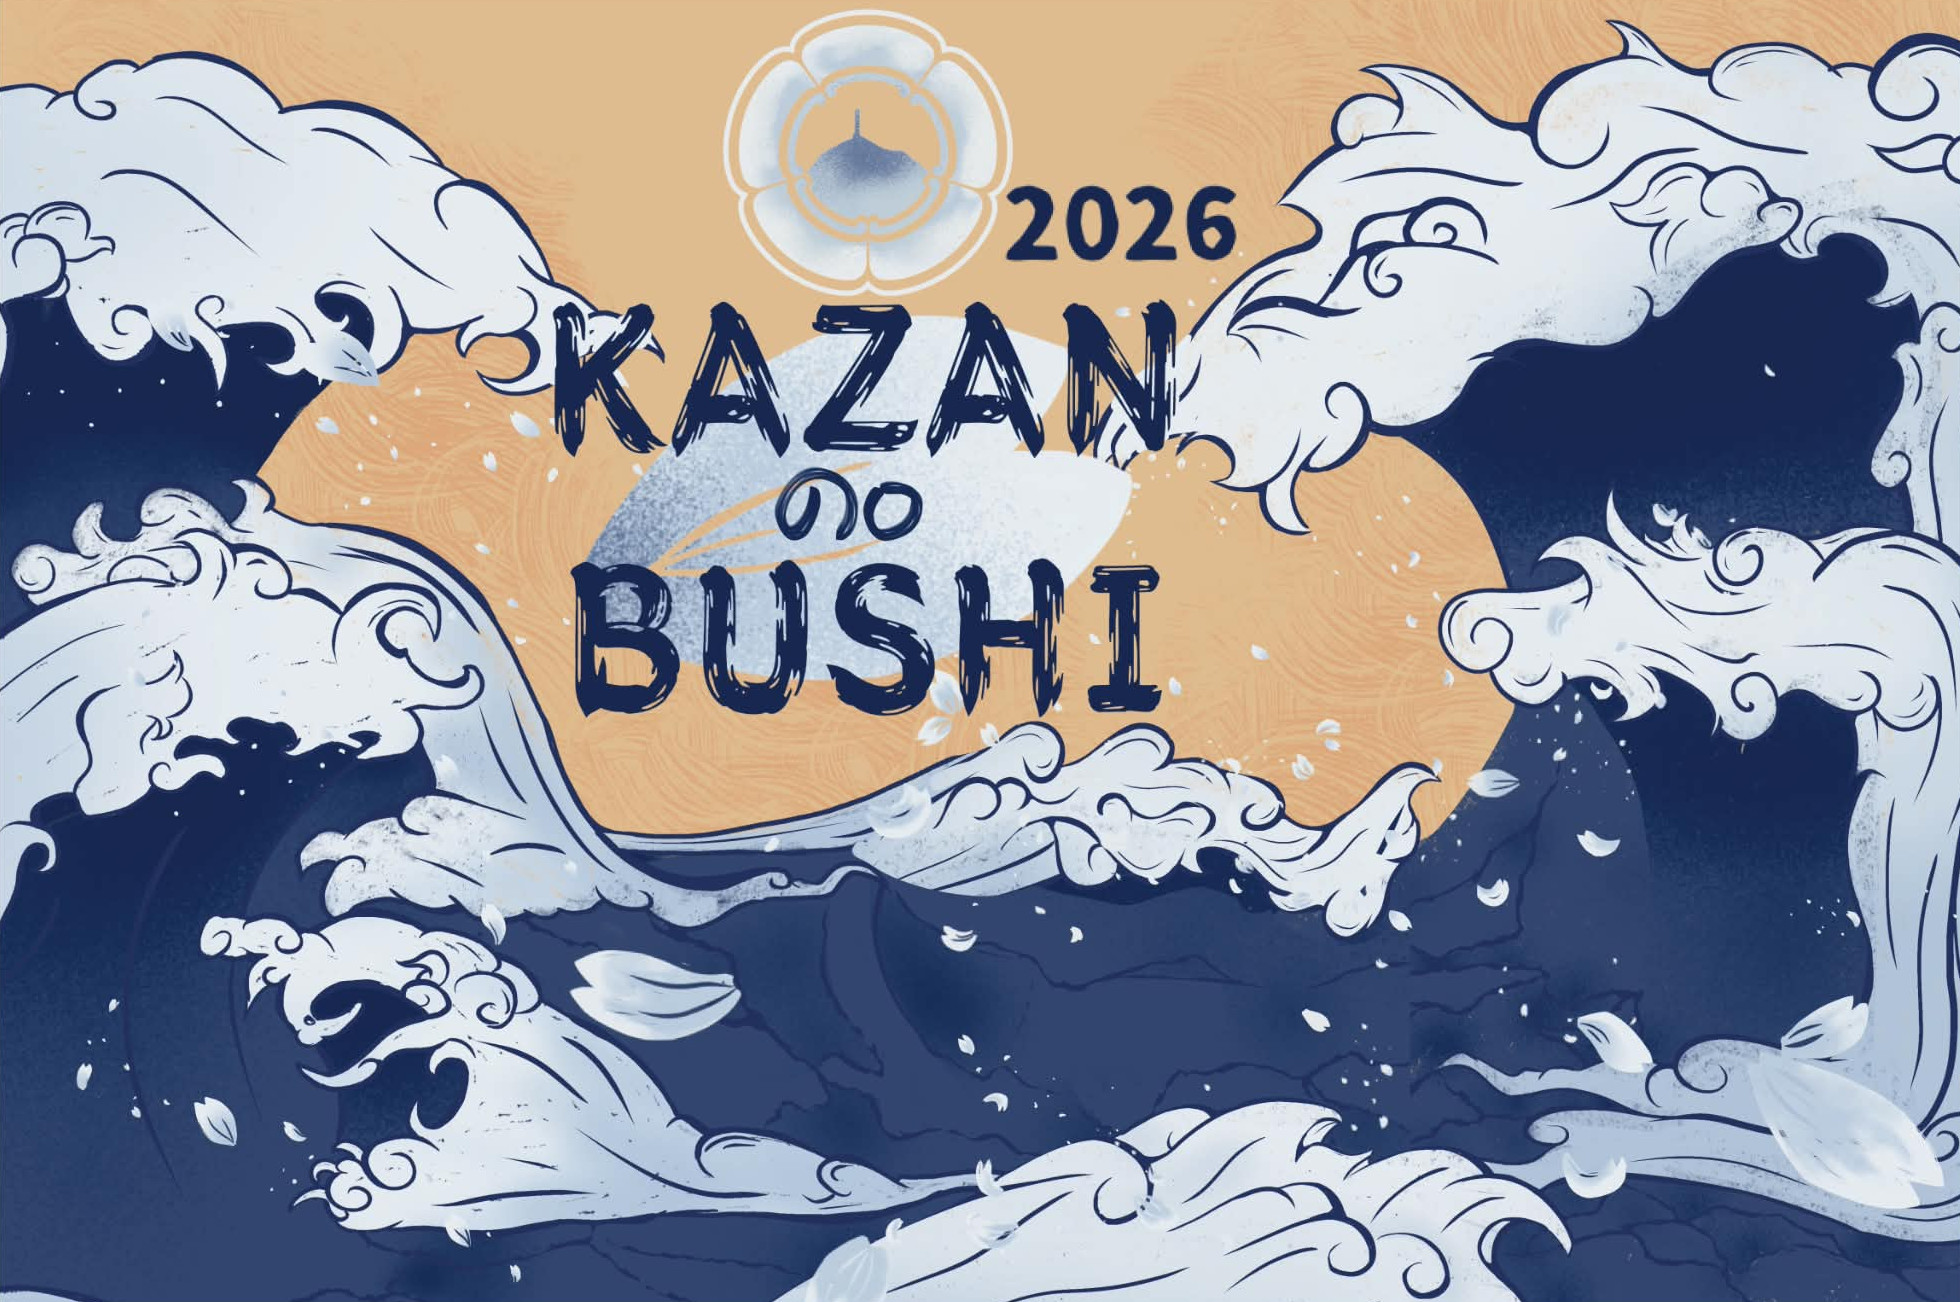
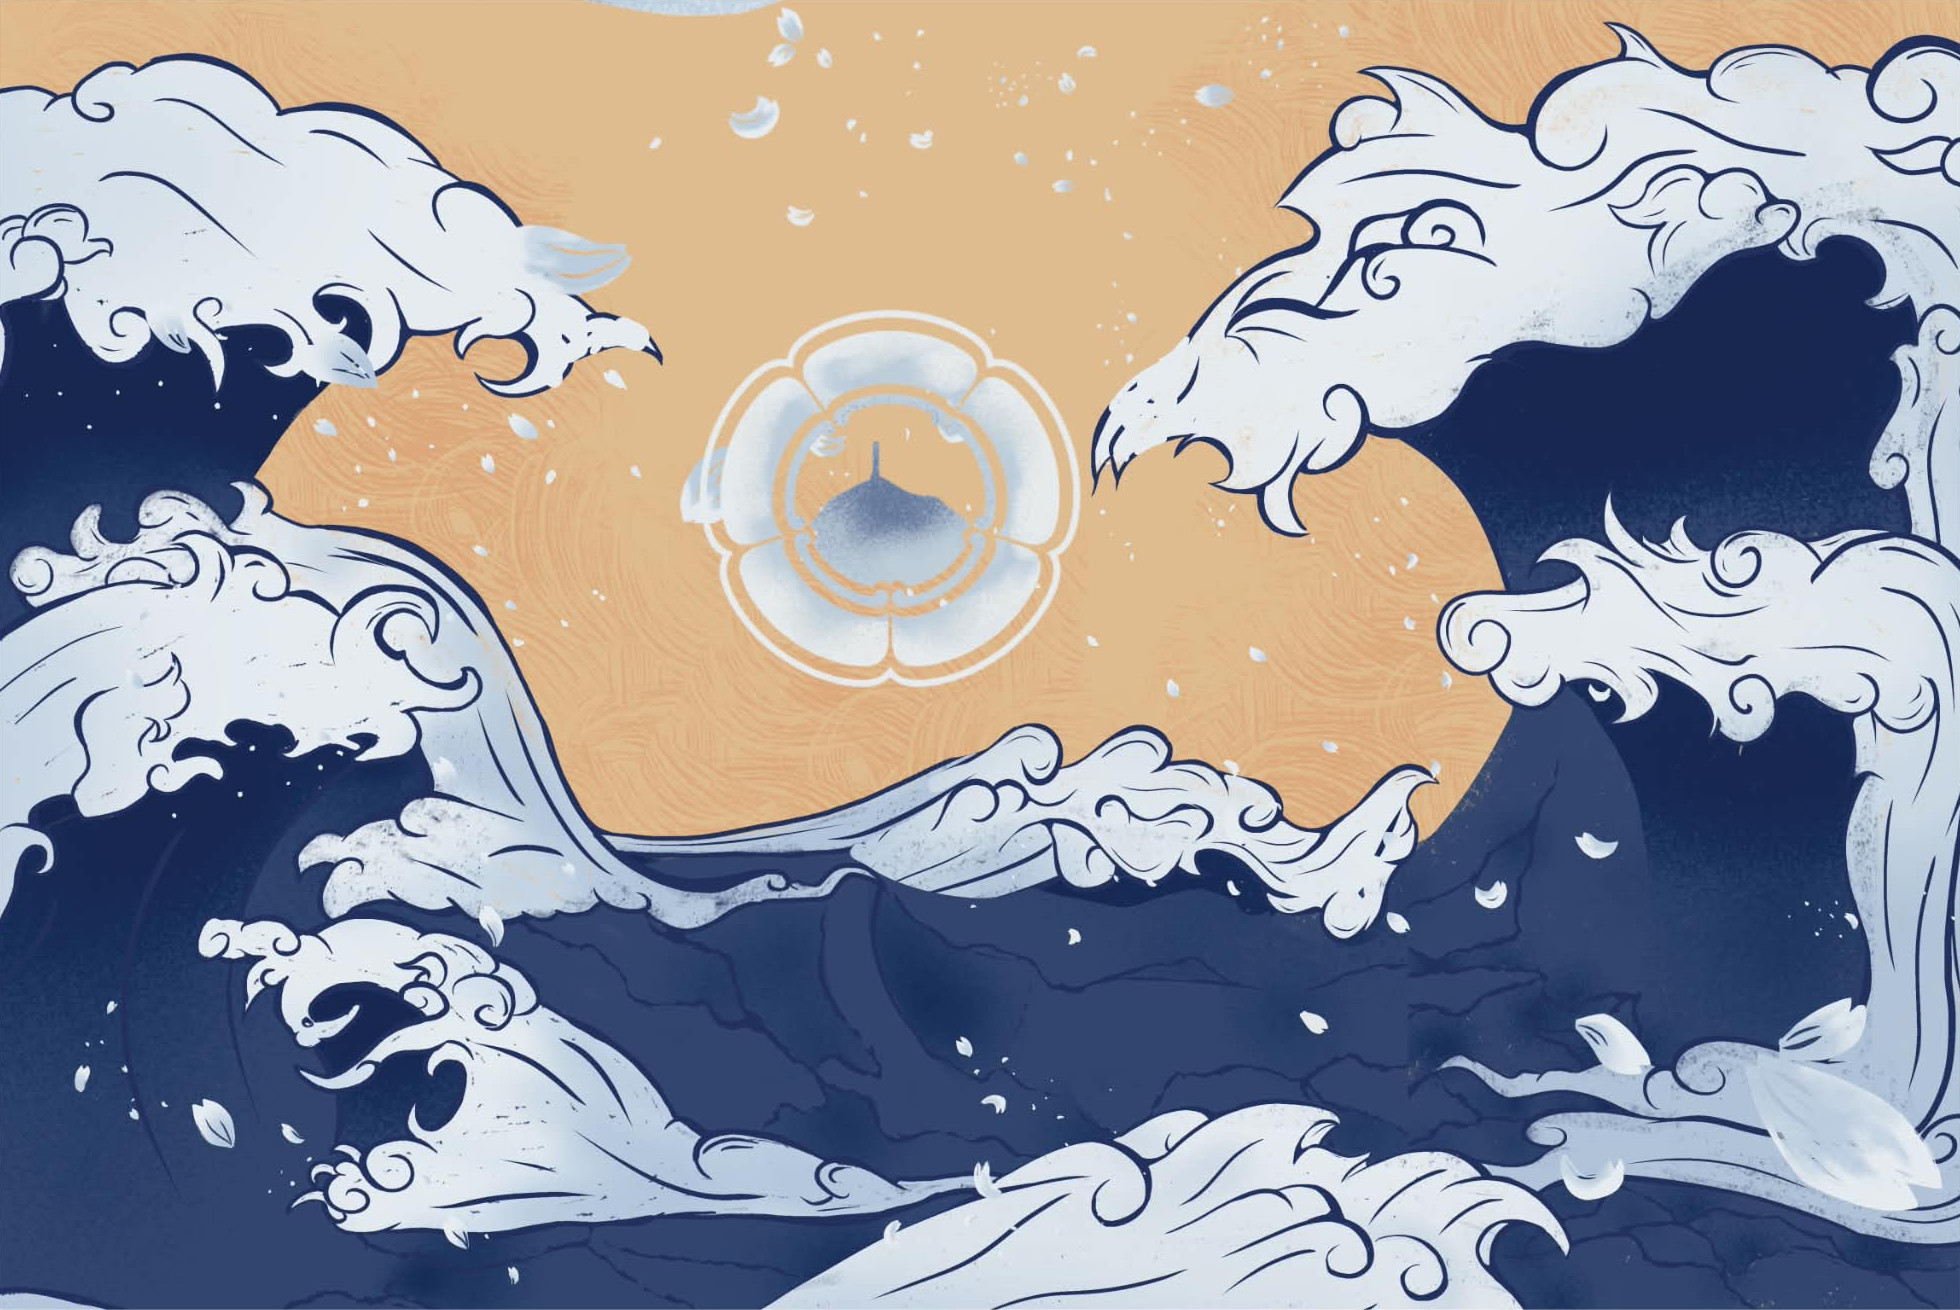
fix: new image without text

diff --git a/components/HeroSection.vue b/components/HeroSection.vue
@@ -39,7 +39,7 @@ onBeforeUnmount(() => {
         <img
             src="/fond-mila.jpeg"
             alt="Combat de kendo"
-            class="absolute inset-0 w-full h-full object-cover object-top"
+            class="absolute inset-0"
         />
 
         <!-- Navy veil -->
